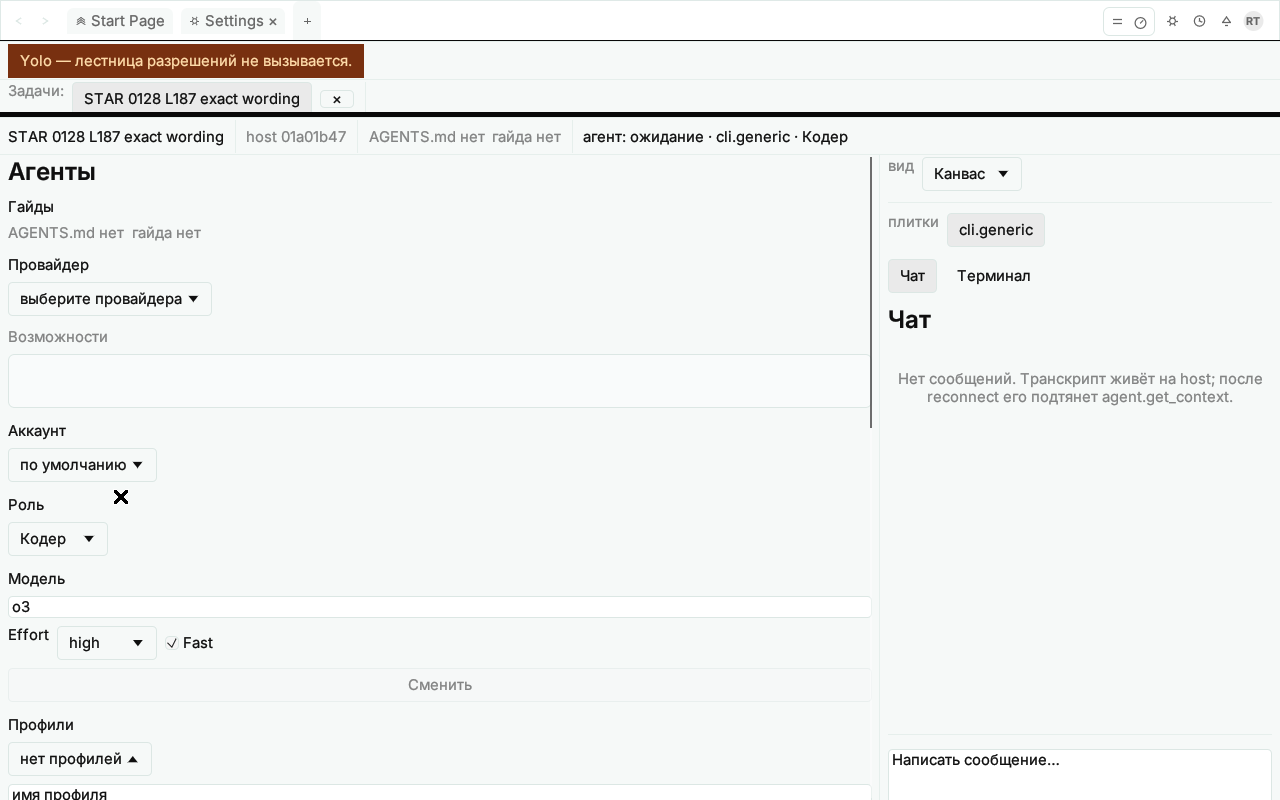
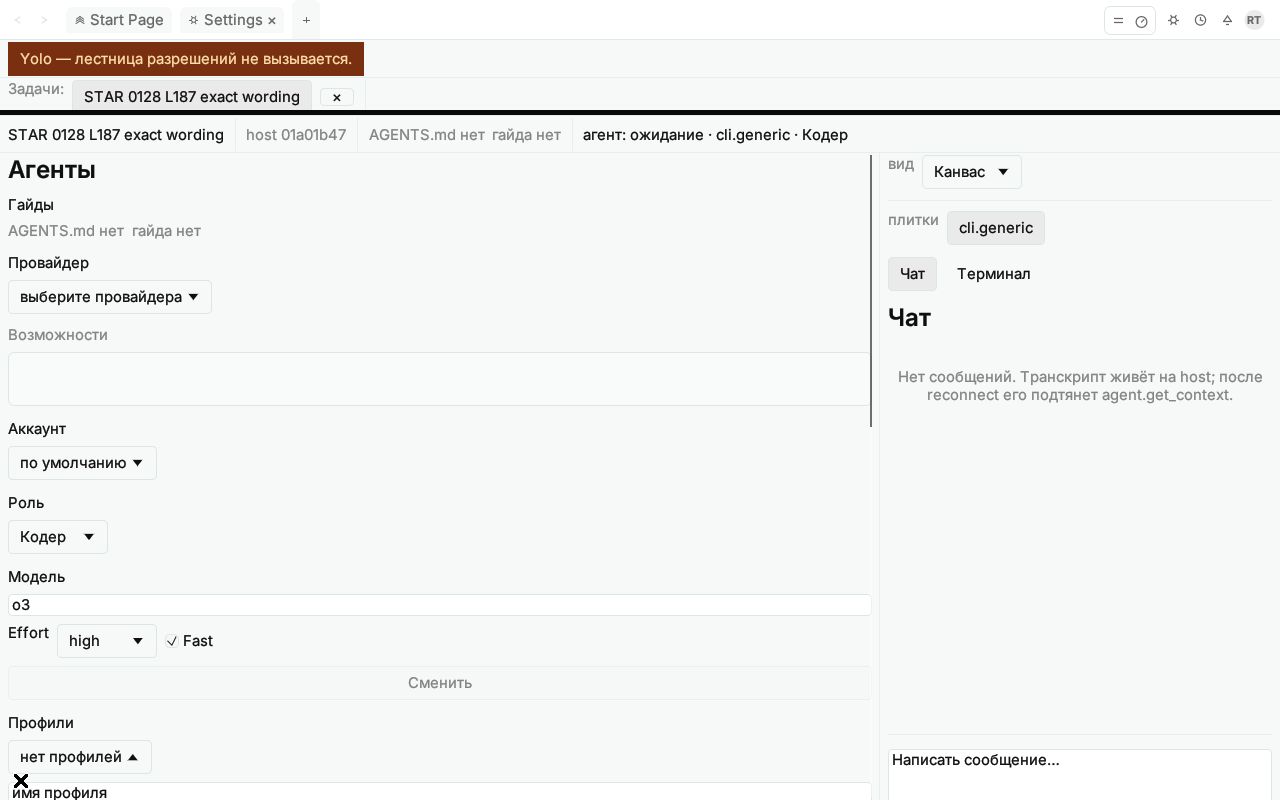
docs: STAR 0142 ours parity shots after header seam

diff --git a/docs/parity-shots/README.md b/docs/parity-shots/README.md
@@ -1,32 +1,32 @@
-# Parity shots — ours after chrome plate 0138
+# Parity shots — ours after header seam 0141
 
-Observe-only recapture of **our** `rt-gui` after STAR 0138 header plate (white `BG_HEADER` + hairline, online pill removed). Not official Traycer. No `asar`.
+Observe-only recapture of **our** `rt-gui` after STAR 0141 header seam (`#DFE9E7` under the 40 px tab strip, not a Frame stroke at y=0). White plate and no online pill are unchanged from 0138. Not official Traycer. No `asar`.
 
 ## Build / session
 
 | Field | Value |
 |---|---|
-| Branch | `task/0139-v3-ours-shots-plate` |
-| Worktree | `/workspace/wt-0139-v3-ours-shots-plate` |
-| Base | `9de19f3bab3e7c1b45a2926ade5b8ab108d082da` (merge STAR 0138; contains `4b14af4`) |
-| Plate commit | `4b14af4` `feat(gui): chrome header plate and drop online pill` |
-| Binary | `cargo build -p rt-gui --release` in this worktree → `/workspace/wt-0139-v3-ours-shots-plate/target/release/rt-gui` |
-| Display | Xvfb `:11` 1280×800×24 (not `:10` 0135 gui, not `:3` official) |
+| Branch | `task/0142-v3-ours-shots-seam` |
+| Worktree | `/workspace/wt-0142-v3-ours-shots-seam` |
+| Base | `6fb741a8305caef658b39f87b7db7ca241b39d06` (merge STAR 0141; contains `3698378`) |
+| Seam commit | `3698378` `feat(gui): draw header seam under the tab strip` |
+| Binary | `cargo build -p rt-gui --release` in this worktree → `/workspace/wt-0142-v3-ours-shots-seam/target/release/rt-gui` |
+| Display | Xvfb `:12` 1280×800×24 (not `:10` 0135 gui, not `:11` 0139 gui, not `:3` official) |
 | Window | `RustTraycer` 1280×800+0+0 |
 | `RUSTTRAYCER_HOME` | `/workspace/df-0102-home` |
 | hostId | `01a01b47-e863-71d3-bd2d-e885cf484d7a` |
 | host pid | **35281** (live OUR host; not restarted) |
 | rpcUrl | `http://127.0.0.1:43811` |
-| Capture | 2026-08-27 21:36–21:40 YEKT (16:36–16:40 UTC). `ffmpeg -f x11grab` from `:11`. |
-| Policy | Did not rebase. Did not merge/push. Did not start or kill official host 339885. Did not reuse `:10` 0135 gui. No asar. |
+| Capture | 2026-08-27 22:03–22:08 YEKT (17:03–17:08 UTC). `ffmpeg -f x11grab` from `:12`. |
+| Policy | Did not rebase. Did not merge/push. Did not start or kill official host 339885. Did not reuse `:10` 0135 or `:11` 0139 gui. No asar. |
 
 ## Pairing
 
-Official frames live under `docs/reference-screens/`. Pair only where the surface honestly matches. Official Start Page / History from STAR 0134 live on `88633cd`, **not** on this `9de19f3` base.
+Official frames live under `docs/reference-screens/`. Pair only where the surface honestly matches. Official Start Page / History from STAR 0134 live on `88633cd`, **not** on this `6fb741a` base.
 
 | Ours | Pixels | Official pair |
 |---|---|---|
-| [`ours/chrome.png`](ours/chrome.png) | 1280×40 | [`logged-in-header-tabs-avatar.png`](../reference-screens/logged-in-header-tabs-avatar.png) **HT** — Start Page / Settings / `+` / avatar strip. Ours is the 40 px white plate (0138); official is 88 px (menu + tabs). Official has no «онлайн» pill either; ours dropped the pill in 0138 (`4b14af4`). |
+| [`ours/chrome.png`](ours/chrome.png) | 1280×40 | [`logged-in-header-tabs-avatar.png`](../reference-screens/logged-in-header-tabs-avatar.png) **HT** — Start Page / Settings / `+` / avatar strip. Ours is the 40 px white plate; official is 88 px (menu + tabs). Seam under the strip is **0141** (`3698378`): `#DFE9E7` on the last pixel of the crop (y=39), not the y=0 window join that 0138's Frame stroke painted. Official has no «онлайн» pill either; ours dropped the pill in 0138 (`4b14af4`). |
 | [`ours/tasks.png`](ours/tasks.png) | 1280×800 | no official pair on this base |
 | [`ours/empty.png`](ours/empty.png) | 1280×800 | no official pair |
 | [`ours/canvas.png`](ours/canvas.png) | 1280×800 | no official pair |
@@ -35,12 +35,23 @@ Official frames live under `docs/reference-screens/`. Pair only where the surfac
 
 ## What each ours frame shows
 
-- **chrome** — 40 px white plate (`#FFFFFF` fill, `#DFE9E7` hairline): back/forward, **Start Page** tab, **Settings** tab, **+**, utility cluster, **RT** avatar. **No «онлайн» pill** (removed 0138). Mouse parked off the bar.
-- **tasks** — open-task list (STAR 0135/0134/0131/0128 rows), filter Открытые / Архив, Новая задача. Same white-plate chrome, no pill. No YOLO banner here (no selected-agent policy on Start Page).
-- **empty** — Архив filter: card «нет архивных». Same chrome plate.
-- **canvas** — task `STAR 0128 L187 exact wording`, agents + canvas/chat split, YOLO banner «Yolo — лестница разрешений не вызывается.» Chrome plate, no pill.
+- **chrome** — 40 px white plate (`#FFFFFF` fill). `#DFE9E7` hairline is the **bottom** row of the crop (y=39), under the tab strip (0141). y=0 is white, not the seam. Back/forward, **Start Page** tab, **Settings** tab, **+**, utility cluster, **RT** avatar. **No «онлайн» pill** (removed 0138). Mouse parked off the bar.
+- **tasks** — open-task list (STAR 0139/0135/0134/0131/0128 rows), filter Открытые / Архив, Новая задача. Same white-plate chrome with under-strip seam, no pill. No YOLO banner here (no selected-agent policy on Start Page).
+- **empty** — Архив filter: card «нет архивных». Same chrome plate + under-strip seam.
+- **canvas** — task `STAR 0128 L187 exact wording`, agents + canvas/chat split, YOLO banner «Yolo — лестница разрешений не вызывается.» Chrome plate, seam under strip, no pill.
 - **chat** — right-pane crop 400×680 at (880, 80): вид Канвас, плитка `cli.generic`, Чат tab, empty transcript, composer «Написать сообщение…».
-- **host** — Host diagnostics from `pid.json`: **status онлайн** (0138 moved the label off chrome into this page), hostId / pid **35281** / `:43811` / `startedAt` 2026-08-27T16:13:51.386Z. YOLO banner still visible (selected-task policy), not a host-down banner. Settings tab selected.
+- **host** — Host diagnostics from `pid.json`: **status онлайн** (0138 moved the label off chrome into this page), hostId / pid **35281** / `:43811` / `startedAt` 2026-08-27T16:13:51.386Z. YOLO banner still visible (selected-task policy), not a host-down banner. Settings tab selected. Same under-strip seam.
+
+## Pixel check (chrome.png)
+
+Sampled after recapture, before commit:
+
+| y | `#DFE9E7` count | `#FFFFFF` count |
+|---|---|---|
+| 0 | 0 | 1258 |
+| 39 | 1280 | 0 |
+
+0139/0138 plate crop had the hairline at y=0 (Frame stroke). This recapture refuses that: seam is only at the bottom of the 40 px strip.
 
 ## Not captured
 
